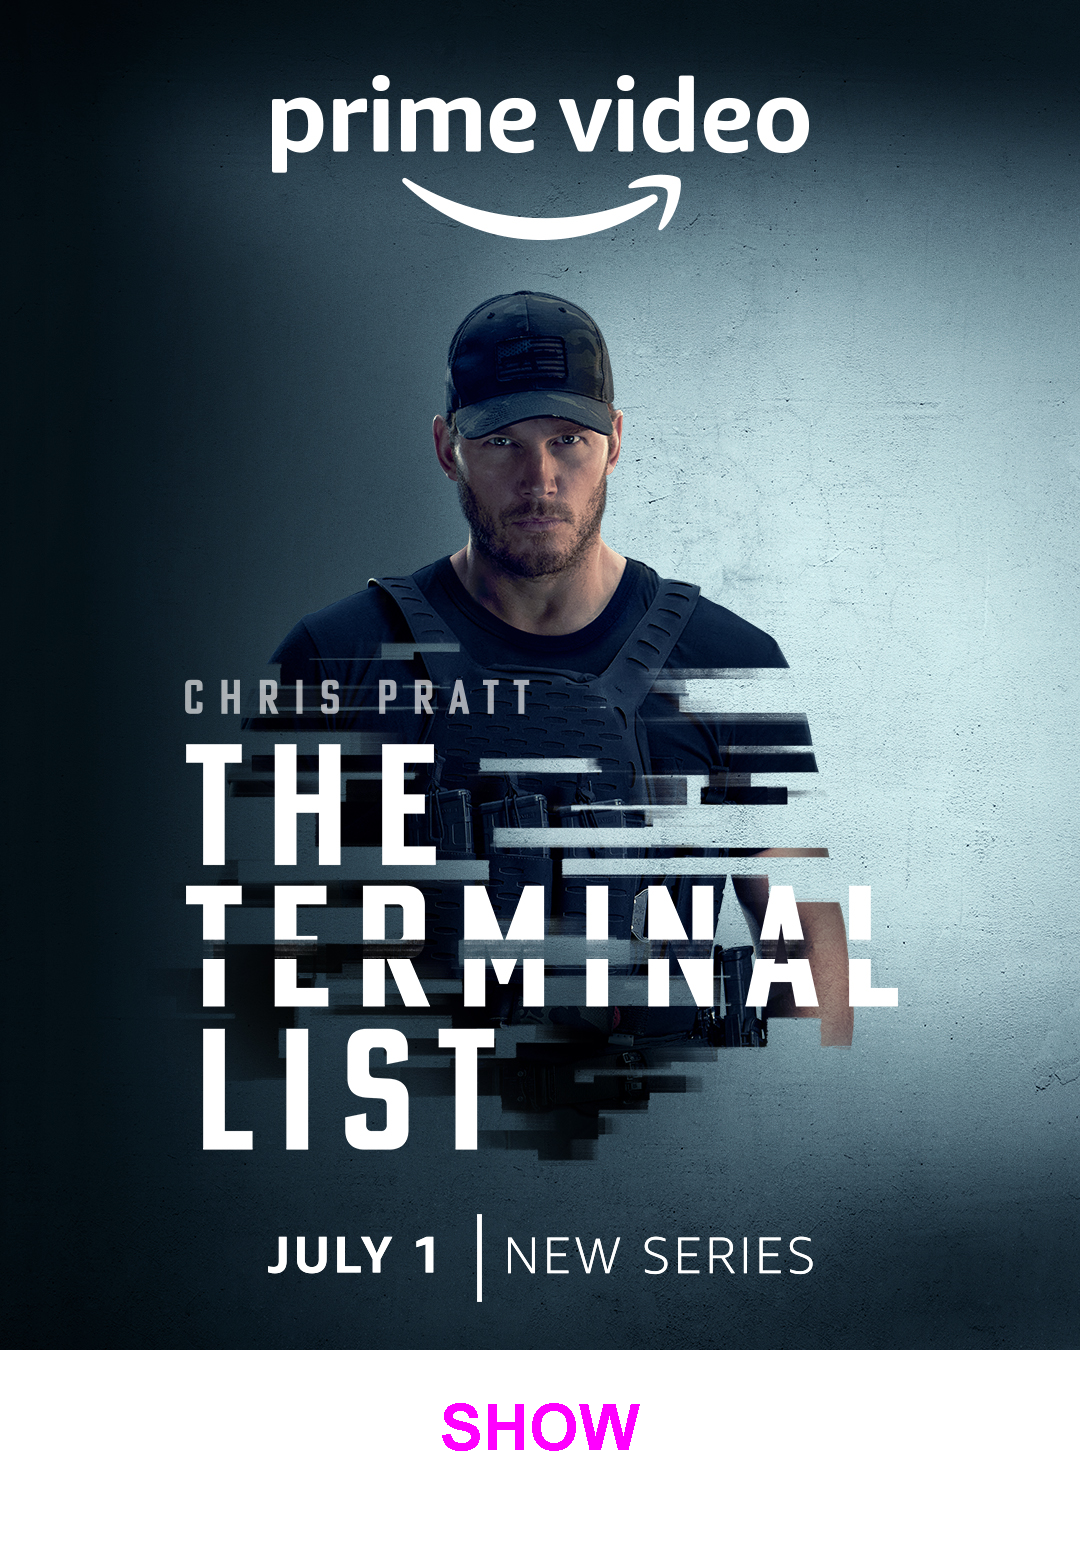
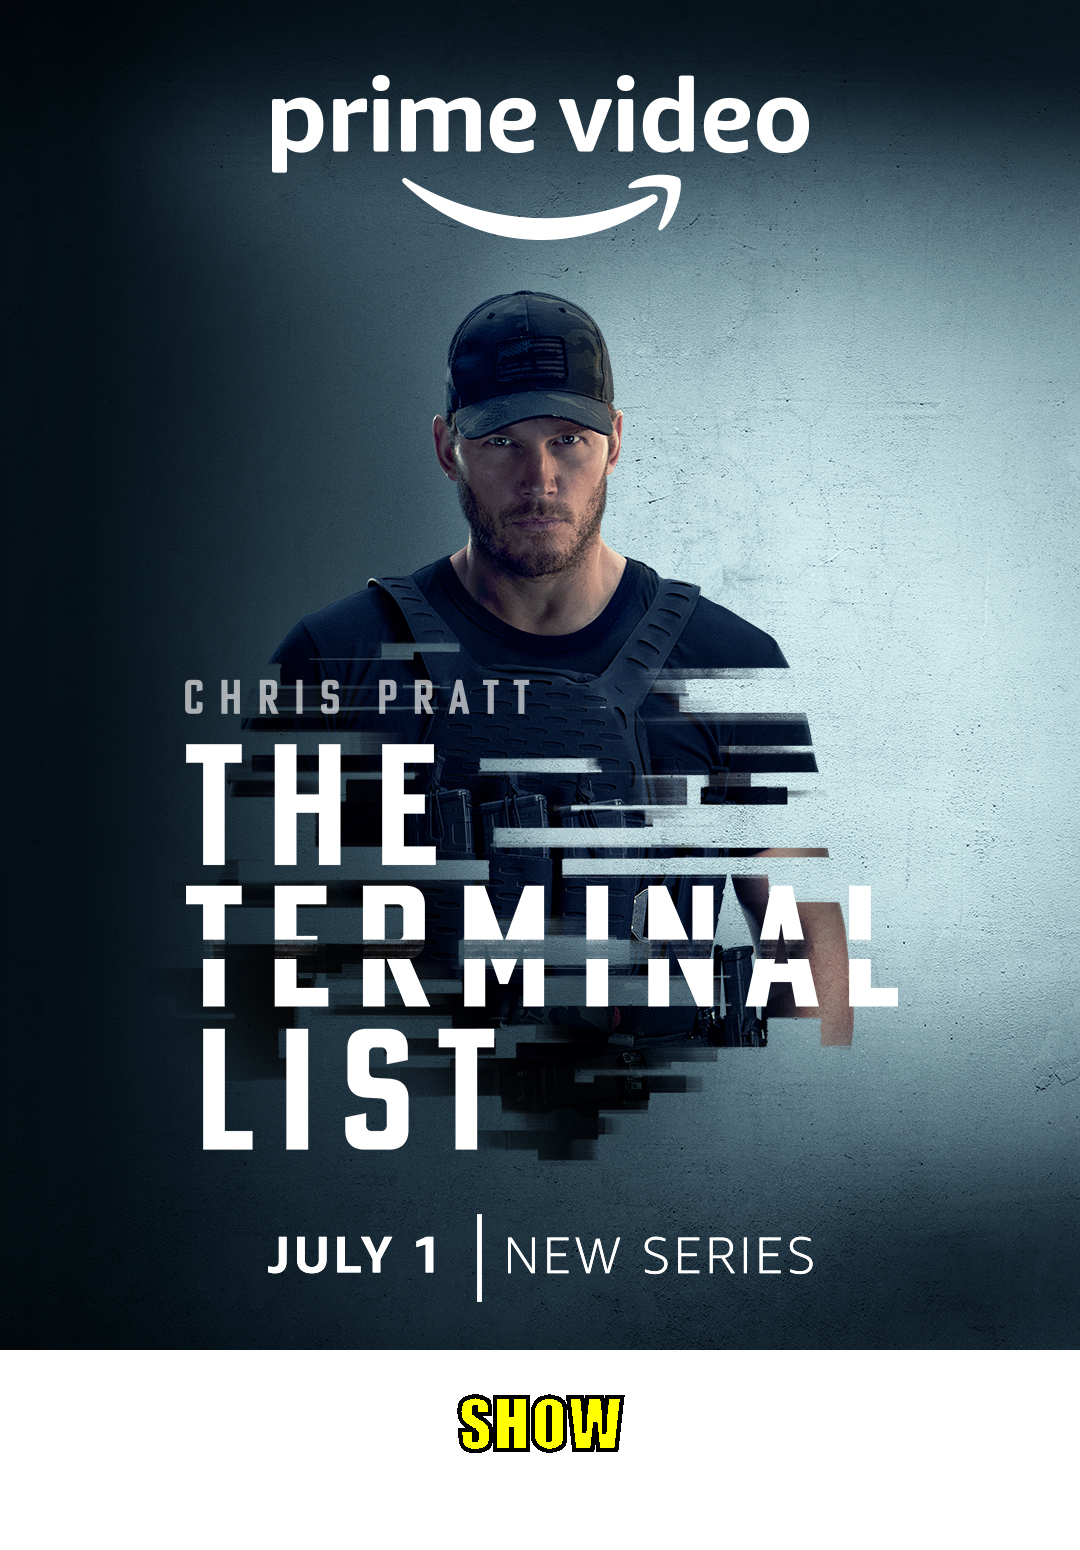
Resolução dos desafios 3 e 4 da aula 2

Changed region(s): [[0.3972, 0.8981, 0.6111, 0.96]]

diff --git a/imsersão-stickers/src/GeradorDeFigurinha.java b/imsersão-stickers/src/GeradorDeFigurinha.java
@@ -1,7 +1,12 @@
+import java.awt.BasicStroke;
 import java.awt.Color;
 import java.awt.Font;
 import java.awt.FontMetrics;
 import java.awt.Graphics2D;
+import java.awt.Shape;
+import java.awt.font.FontRenderContext;
+import java.awt.font.TextLayout;
+import java.awt.geom.AffineTransform;
 import java.awt.geom.Rectangle2D;
 import java.awt.image.BufferedImage;
 import java.io.File;
@@ -27,8 +32,8 @@ public class GeradorDeFigurinha {
         grafico.drawImage(imagemOriginal, 0, 0, null);
 
         //configurar a fonte
-        var fonte = new Font(Font.SANS_SERIF, Font.BOLD, 64);
-        grafico.setColor(Color.MAGENTA);
+        var fonte = new Font("Impact", Font.BOLD, 64);
+        grafico.setColor(Color.YELLOW);
         grafico.setFont(fonte);
 
         //escrever uma frase na nova imagem
@@ -37,7 +42,23 @@ public class GeradorDeFigurinha {
         Rectangle2D retangulo = fontMetrics.getStringBounds(texto, grafico);
         double larguraRetangulo = (int) retangulo.getWidth();
         double larguraFinal = (novaLargura-larguraRetangulo)/2;
-        grafico.drawString(texto, (int) larguraFinal, novaAltura-100);     
+        int alturaFinal = novaAltura-100;
+        grafico.drawString(texto, (int) larguraFinal,alturaFinal );     
+
+        //desenhar a borda do texto
+        FontRenderContext fontRenderContext = grafico.getFontRenderContext();
+        TextLayout textLayout = new TextLayout(texto, fonte, fontRenderContext);
+        Shape outline = textLayout.getOutline(null);
+        AffineTransform transform = grafico.getTransform();
+        transform.translate(larguraFinal, alturaFinal);
+        grafico.setTransform(transform);
+
+        BasicStroke outlineStroke = new BasicStroke((float) (novaLargura* 0.004f));
+        grafico.setStroke(outlineStroke);
+        grafico.setColor(Color.BLACK);
+        grafico.draw(outline);
+        grafico.setClip(outline);
+
 
         //escrever a nova imagem em um arquivo
         ImageIO.write(novaImgagem, "png", new File(nomeArquivo));
